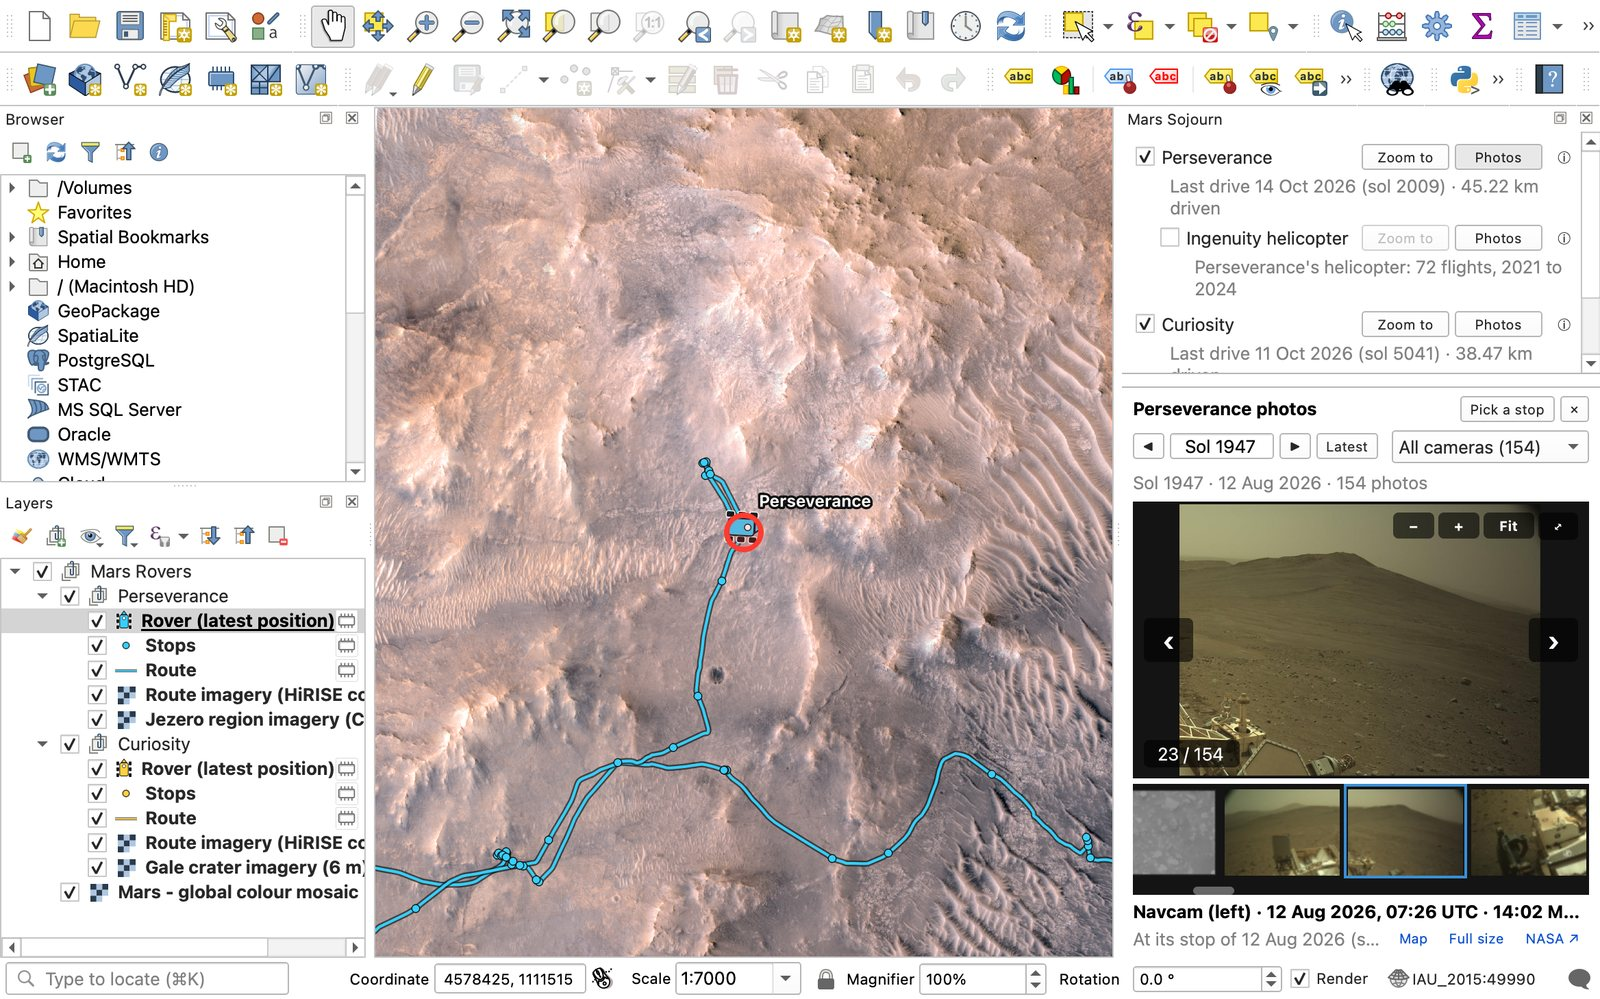
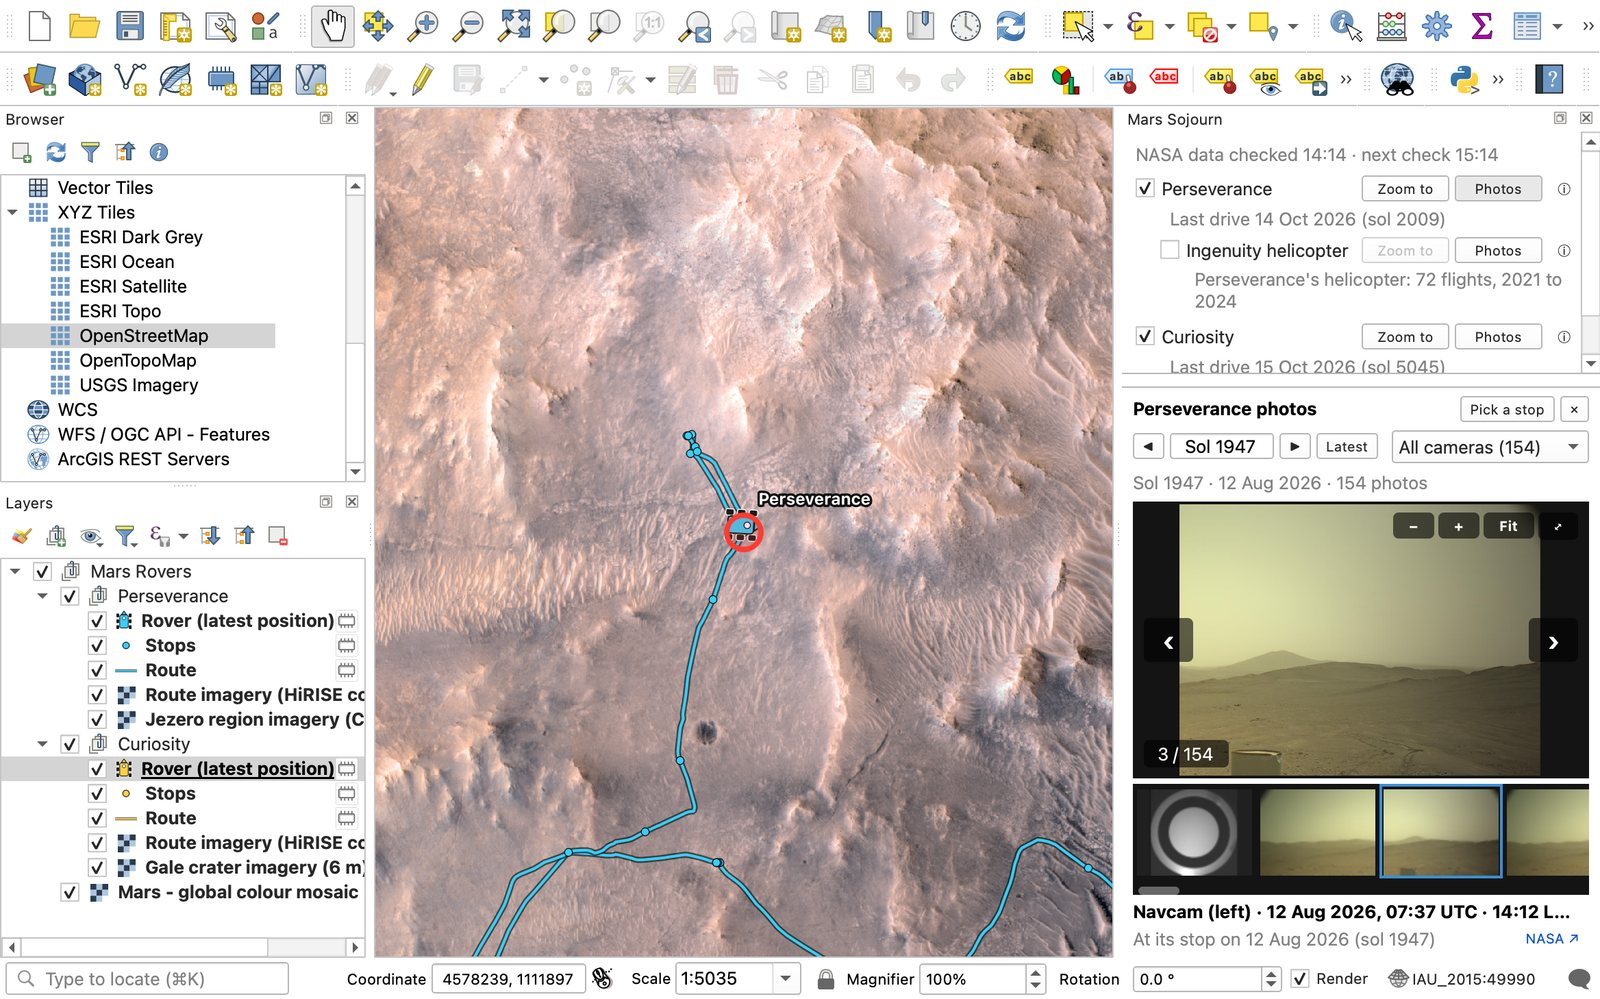
README: new screenshots of the updated panel, photo times in UTC and LMST, Earth map handling

diff --git a/README.md b/README.md
@@ -17,9 +17,9 @@ A "Mars Rovers" group in the Layers panel:
 
 Click a rover, stop or route with QGIS's Identify tool for the sol (Mars day since landing), distance driven, elevation and tilt.
 
-![Curiosity's route climbing through Gale crater, with a Navcam view of the crater rim in the panel](docs/img/02-curiosity-gale.jpg)
+![Curiosity's route climbing through Gale crater's colour imagery](docs/img/02-curiosity-gale.jpg)
 
-![Ingenuity's flights over Jezero, with the helicopter's own photo of its shadow after flight 55](docs/img/03-ingenuity-flights.jpg)
+![Ingenuity's flights over Jezero, with the helicopter's own photo of its shadow after flight 66](docs/img/03-ingenuity-flights.jpg)
 
 ## Photos
 
@@ -27,11 +27,11 @@ The bottom of the Mars Sojourn panel is a photo viewer with the rovers' raw phot
 
 - a strip of every photo from a sol, newest first, with a camera filter (Navcam, Mastcam-Z, Hazcams, WATSON, SuperCam and so on)
 - earlier and later sols with the arrows, or type any sol
-- click a thumbnail to see it in the preview: zoom with the mouse wheel or + and -, drag to pan, double-click to fit, arrow keys for the previous and next photo, ⤢ to see the photo large over the whole QGIS window (Esc closes), and full size on request
-- each photo says where it was taken (rovers stamp their photos with counters that match the stops on the map), with a Show on map link
+- click a thumbnail to see it in the preview: zoom with the mouse wheel or + and -, drag to pan, double-click to fit, arrow keys for the previous and next photo, ⤢ to see the photo large over the whole QGIS window (Esc closes)
+- each photo says where it was taken (rovers stamp their photos with counters that match the stops on the map), and the map follows it with a red ring
 - Pick a stop, then click any stop on the map, to see the photos from that sol
 
-![A Perseverance Navcam photo from sol 204, shown large over the QGIS window](docs/img/04-full-screen-photo.jpg)
+![A Perseverance Navcam photo from sol 1947, shown large over the QGIS window, timed in UTC and LMST](docs/img/04-full-screen-photo.jpg)
 
 Some raw frames are naturally dark or odd-looking: night-time and calibration shots, and partial frames with black around them. That is how NASA posts them.
 
@@ -45,7 +45,7 @@ Every hour Mars Sojourn also reads the newest photo NASA has posted from each ro
 
 QGIS cannot mix Earth and Mars coordinates, so Mars Sojourn puts the map in a proper Mars projection (Mars Mercator, IAU 2015) and measures on the Mars sphere. The scale bar and the Measure tool give real Martian distances.
 
-If your project is empty, Mars Sojourn switches the map to Mars for you. If it already holds layers of your own, it leaves the map alone and offers a "Switch map to Mars" button instead. Earth layers cannot be drawn on a Mars map, so use a separate project for those.
+If your project is empty, Mars Sojourn puts the map on Mars for you. If you have an Earth map open, it adds nothing to it (QGIS can't show Mars on an Earth map) and the panel offers **Open a Mars map**, which starts a new project on Mars (QGIS asks first whether to save yours). Open your Earth project again afterwards as usual; the rovers you ticked are remembered. (To put an existing project on Mars instead, set its projection to a Mars one in Project Properties; the rovers then appear in it, and its Earth layers stop drawing.)
 
 ## Install
 
@@ -65,7 +65,8 @@ Data courtesy NASA/JPL-Caltech. This plugin is not affiliated with or endorsed b
 
 ## Notes
 
-- Earth dates for stops are worked out from the sol number, at 13:00 Mars time, in UTC.
+- Earth dates for stops are worked out from the sol number, at 13:00 LMST, in UTC.
+- Photo times are shown in UTC and, for Perseverance and Ingenuity, in LMST: the rover's local mean solar time, NASA's own stamp. Mars has no time zones; each place's clock follows its longitude. Curiosity's feed gives UTC only.
 - A few Perseverance stops are labelled "Interpolated (not measured)". That is NASA's own flag for points filled in between two measured ones.
 - NASA's Curiosity route file carries no sol numbers, so the route there is not dated; the stops are.
 
